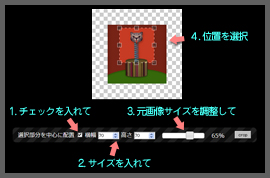
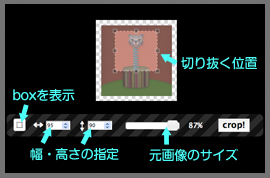
fixed design

diff --git a/public/croppi.css b/public/croppi.css
@@ -1,3 +1,24 @@
+/* float clearing for IE6 */
+* html div{
+  height: 1%;
+  overflow: visible;
+}
+
+/* float clearing for IE7 */
+*+html div{
+  min-height: 1%;
+}
+
+/* float clearing for everyone else */
+div:after{
+  clear: both;
+  content: ".";
+  display: block;
+  height: 0;
+  visibility: hidden;
+  font-size: 0;
+}
+
 #canvas {
   display: none;
   position: fixed;
@@ -30,12 +51,12 @@
 
 #sl {
   width: 120px;
-  margin-top: 5px;
+  margin-top: 8px;
   margin-left: 20px;
 }
 
 #sc {
-	margin-top: 2px;
+	margin-top: 5px;
 	margin-right: 10px;
 	margin-bottom: 0;
 	margin-left: 20px;
@@ -46,13 +67,10 @@
 	position: relative;
 	top: -7px;
 }
-#cb form {
-	height: 6px;
-}
 
 #footerMenu {
-	width: 492px;
-	height: 35px;
+	width: 540px;
+	height: 30px;
 	display: none;
 	position: fixed;
 	bottom: 15px;
@@ -62,7 +80,7 @@
 	-moz-border-radius: 10px;
 	padding-top: 10px;
 	padding-right: 15px;
-	padding-bottom: 6px;
+	padding-bottom: 10px;
 	padding-left: 15px;
 	-moz-box-shadow: 2px 2px 5px #000;
 	-webkit-box-shadow: 2px 2px 5px #000;
@@ -77,10 +95,15 @@
 }
 
 .ui-button-text {
-  font-size: 1.2em;
-  padding: 0 !important;
-  width: 25px;
-  line-height: normal !important;
+	font-size: 1.2em;
+	width: 25px;
+	line-height: 1 !important;
+	padding-top: 0 !important;
+	padding-right: 0 !important;
+	padding-bottom: 5px !important;
+	padding-left: 0 !important;
+  display:block;
+  float:left;
 }
 
 #lr, #ud {
@@ -88,25 +111,42 @@
 }
 
 #lr {
-  margin-left: 15px;
-  font-size: 1.5em;
-  font-weight: bold;
+	margin-left: 15px;
+	font-size: 1.5em;
+	font-weight: bold;
+	line-height: 1 !important;
+	display:block;
+	float:left;
+	margin-right: 5px;
 }
 
 #ud {
   margin-left: 5px;
   font-size: 1.5em;
   font-weight: bold;
-
+  line-height: 1 !important;
+  padding-top: 5px !important;
+  display:block;
+  float:left;
 }
 
 #inputWidth, #inputHeight {
-  width: 54px;
+	width: 54px;
+	display:block;
+	float:left;
+	margin-right: 10px;
+	margin-top: 5px;
 }
-
+#checkBtnLabel {
+  display:block;
+  float:left;
+}
 #cropBtn {
-  font-size: 1.8em;
-  padding: 0;
+	font-size: 1.2em;
+	padding: 0;
+	font-weight: bold;
+	margin-top: 7px;
+	line-height: 30px;
 }
 
 
